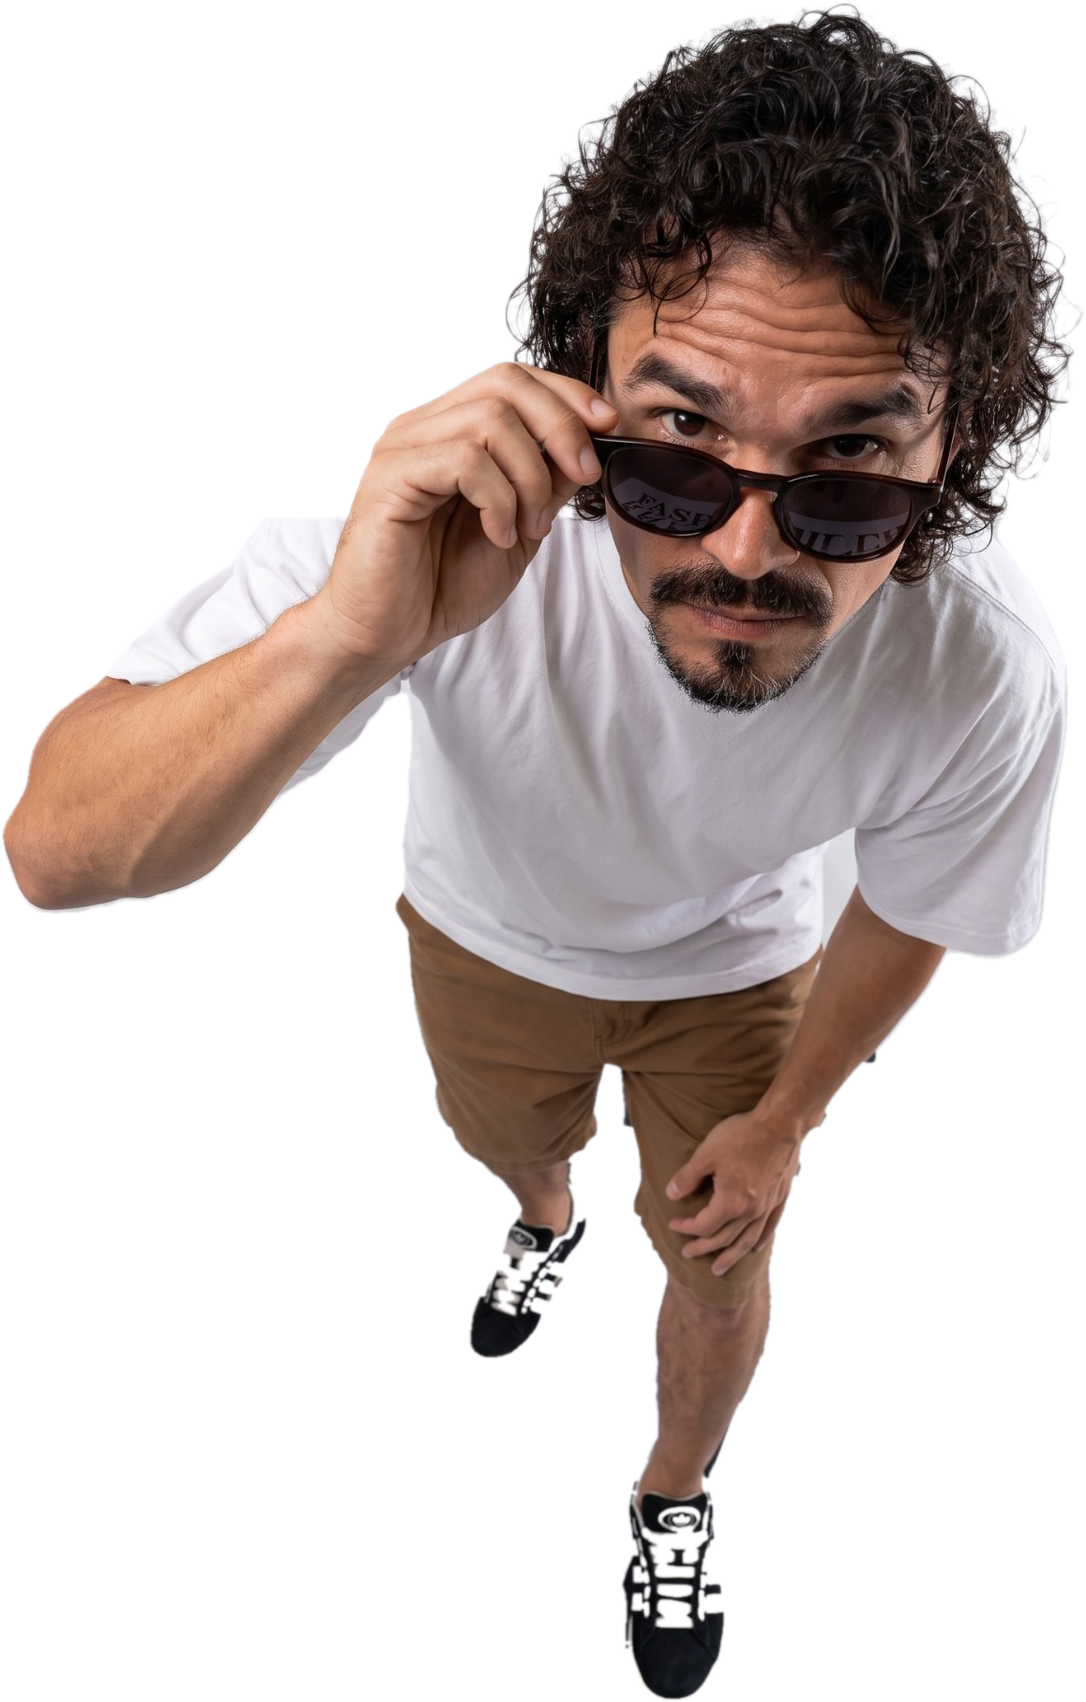
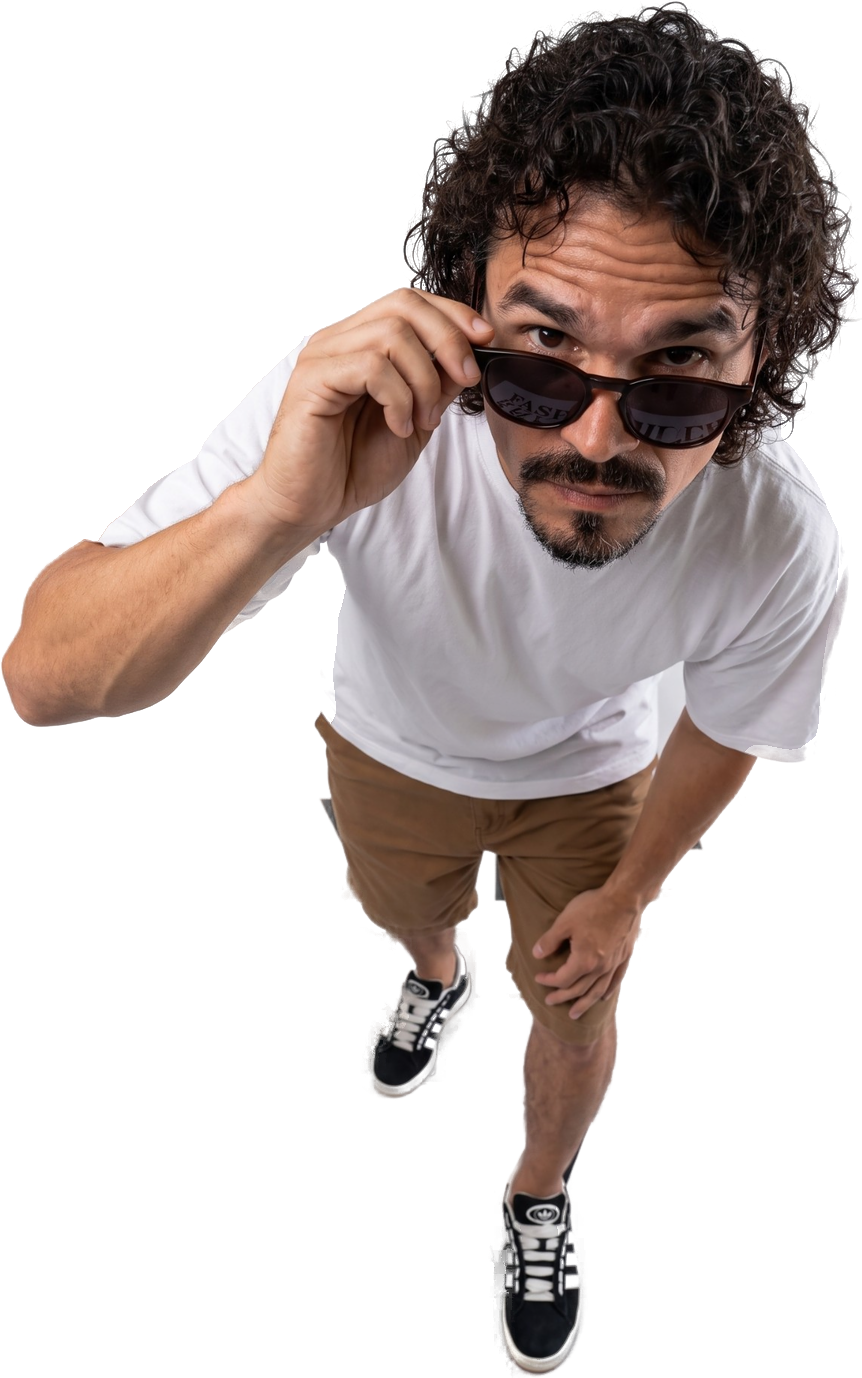
Recorte de foto com BiRefNet + matting: recortes do carrossel refeitos (borda fina, sem halo)
Claude-Session: https://claude.ai/code/session_01MPbiBtEqHus9hXngfE8DnA

diff --git a/producoes/carrossel-video-ia/CarrosselPanorama.tsx b/producoes/carrossel-video-ia/CarrosselPanorama.tsx
@@ -56,8 +56,14 @@ const Card: React.FC<{ src: string; pos?: string; cx: number; cy: number; w: num
   </div>
 );
 
+const RAZAO = new Map<string, number>([
+  [euFrente, 1056 / 1228],
+  [euBaixo, 1056 / 1159],
+  [euPerfilDir, 1056 / 1256],
+  [euPerfilEsq, 1056 / 1210],
+]);
 const Eu: React.FC<{ src: string; left: number; h: number; bottom?: number; flip?: boolean }> = ({ src, left, h, bottom = 0, flip }) => (
-  <Img src={src} style={abs({ left, bottom, height: h, width: h * 0.8, transform: flip ? "scaleX(-1)" : undefined })} />
+  <Img src={src} style={abs({ left, bottom, height: h, width: h * (RAZAO.get(src) ?? 0.8), transform: flip ? "scaleX(-1)" : undefined })} />
 );
 
 const Fita: React.FC<{ cx: number; cy: number; w: number; rot: number }> = ({ cx, cy, w, rot }) => (
@@ -174,7 +180,7 @@ const PalcoFotos: React.FC = () => (
   <>
     <Ghost t="5" size={1000} style={{ left: X(3) + 700, top: 330 }} />
     <div style={abs({ left: 1010 - 500, top: 930 - 500, width: 1000, height: 1000, borderRadius: 500, background: AM })} />
-    <Img src={euCapa} style={abs({ left: 250, bottom: 0, height: 940, width: 940 * (1086 / 1702) })} />
+    <Img src={euCapa} style={abs({ left: 250, bottom: 0, height: 940, width: 940 * (862 / 1378) })} />
     <Card src={fotoNotebook} pos="50% 62%" cx={2160} cy={960} w={780} h={450} rot={-4} />
     <Fita cx={3240} cy={1170} w={1900} rot={-5} />
     <Card src={fotoLivro} pos="50% 33%" cx={4500} cy={940} w={800} h={460} rot={3} persp={-10} />
@@ -184,7 +190,7 @@ const PalcoFotos: React.FC = () => (
     </div>
     <Onda x0={6140} yc={960} />
     <div style={abs({ left: X(8) + 700 - 450, top: 1130 - 450, width: 900, height: 900, borderRadius: 450, background: INK })} />
-    <Img src={euFala} style={abs({ left: X(8) + 1110 - 900 * (768 / 1102) , bottom: 0, height: 900, width: 900 * (768 / 1102) })} />
+    <Img src={euFala} style={abs({ left: X(8) + 1110 - 900 * (768 / 1108), bottom: 0, height: 900, width: 900 * (768 / 1108) })} />
     <div style={abs({ left: X(8) + 88, top: 900, width: 190, height: 190, borderRadius: 95, background: INK, display: "flex", alignItems: "center", justifyContent: "center" })}>
       <Logo layout="symbol" finish="metal" height={110} />
     </div>
@@ -321,8 +327,8 @@ export const CarrosselPanorama: React.FC<{ n: number; v: number }> = ({ n, v }) 
         <span style={{ fontFamily: fontFamilies.mono, fontSize: 18, letterSpacing: "0.16em", color: MUT }}>{String(i).padStart(2, "0")} / {String(N).padStart(2, "0")}</span>
       </div>
       <div style={abs({ left: 88, right: 88, bottom: 56, borderTop: `1px solid ${LINE}`, paddingTop: 22, display: "flex", justifyContent: "space-between", fontFamily: fontFamilies.heading, fontWeight: 600, fontSize: 17, letterSpacing: "0.22em", color: MUT })}>
-        <span style={{ background: "rgba(255,255,255,0.85)", padding: "0 6px" }}>@CFDESIGNER.OFICIAL</span>
-        {i < N && <span style={{ background: "rgba(255,255,255,0.85)", padding: "0 6px" }}>ARRASTE →</span>}
+        <span style={{ background: "rgba(255,255,255,0.92)", padding: "8px 18px", borderRadius: 999 }}>@CFDESIGNER.OFICIAL</span>
+        {i < N && <span style={{ background: "rgba(255,255,255,0.92)", padding: "8px 18px", borderRadius: 999 }}>ARRASTE →</span>}
       </div>
     </AbsoluteFill>
   );

diff --git a/tecnicas/recorte-pessoa/README.md b/tecnicas/recorte-pessoa/README.md
@@ -28,3 +28,14 @@ Técnica **sem marca**: separa a pessoa do fundo, para qualquer design system co
 - Se alguma borda piscar no quadro, olhar o recorte com um fundo de cor (ex.: magenta) antes de montar.
 - Cada quadro é um PNG grande: recorte só o trecho necessário (1 a 4 s).
 - Outro fundo muito parecido com a pele ou a roupa pode confundir o modelo: confira 2 a 3 quadros.
+
+
+## Recorte de FOTO com borda fina (`scripts/recortar-foto.py`)
+
+Para peças estáticas (carrossel, capa, post) o recorte do vídeo não basta: o contorno fica "amador" nos cachos. A receita para foto usa o modelo **BiRefNet (retrato)** para a máscara, um trimap com faixa larga no contorno, **matting de forma fechada (PyMatting)** só nessa faixa e estimativa da cor do primeiro plano (tira o halo do fundo antigo). Opção `--fundo-claro` para fotos com parede branca/cinza (remove o miolo claro entre os cachos).
+
+```bash
+/opt/recorte-venv/bin/python scripts/recortar-foto.py <foto> <saida.png> --altura 1500 [--fundo-claro]
+```
+
+Leva ~25 s por foto, só CPU. Os modelos (~1 GB) baixam na primeira execução. Foi usado no carrossel "Vídeo com IA" (`producoes/carrossel-video-ia/assets/eu-*.png`).
